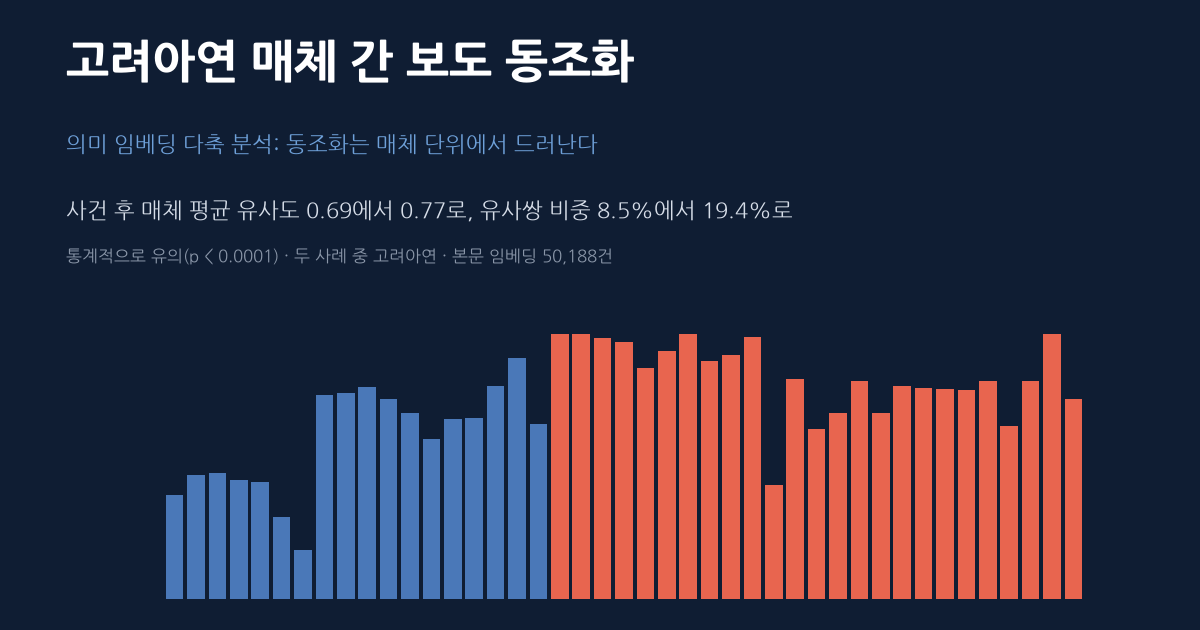
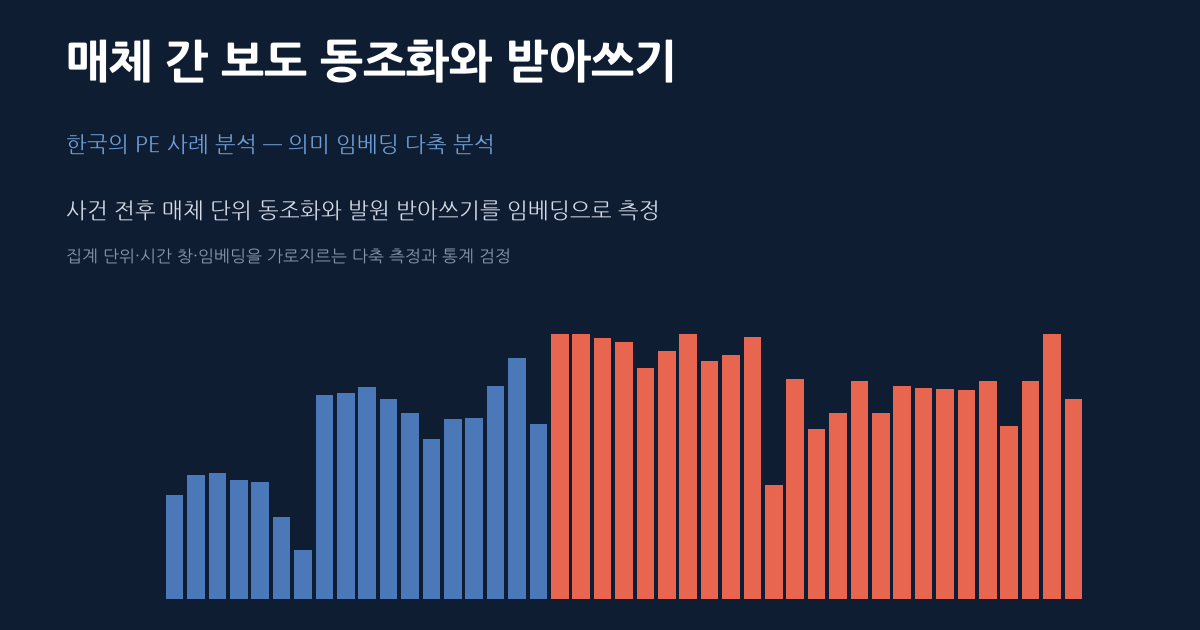
제목 일반화(한국 PE 사례) + 기자·언론사 실명 전면 마스킹
- 제목: '고려아연 매체 간 보도 동조화' → '매체 간 보도 동조화와 받아쓰기 — 한국의 PE 사례 분석'
  (title/og/h1/subtitle/meta, 썸네일, DOCX/HWPX 동일 반영)
- §5.6 본문·캡션 실명 마스킹: 매체→'한 종합지/다른 두 매체', 기자→'한 기자/다른 기자, 기자 A·B'
- 그림10(burst): 매체·기자 라벨 익명화(매체 A·B / 기자 A·B) 재생성
- §7.2 발원: '연합인포맥스' → '한 통신사'
- PDF(45쪽)·DOCX·HWPX(baking) 재생성

diff --git a/index.html b/index.html
@@ -3,9 +3,9 @@
 <head>
 <meta charset="UTF-8">
 <meta name="viewport" content="width=device-width, initial-scale=1.0">
-<title>고려아연 매체 간 보도 동조화 — 의미 임베딩 다축 분석</title>
-<meta property="og:title" content="고려아연 매체 간 보도 동조화 — 의미 임베딩 다축 분석">
-<meta property="og:description" content="동조화는 매체 단위에서 드러난다 — 본문 임베딩·집계 단위·시간 창·지표의 다축 분석">
+<title>매체 간 보도 동조화와 받아쓰기 — 한국의 PE 사례 분석</title>
+<meta property="og:title" content="매체 간 보도 동조화와 받아쓰기 — 한국의 PE 사례 분석">
+<meta property="og:description" content="의미 임베딩으로 받아쓰기와 동조화를 측정 — 집계 단위·시간 창·발원 추적·통계 검정">
 <meta property="og:image" content="assets/thumbnail.png">
 <meta property="og:type" content="article">
 <link rel="preconnect" href="https://fonts.googleapis.com">
@@ -47,9 +47,9 @@
 <header class="hero"><img src="assets/thumbnail.png" alt="고려아연 매체 간 보도 동조화"></header>
 
 <div class="titleblock">
-  <h1 class="title">고려아연 매체 간 보도 동조화의 의미 임베딩 다축 분석<br>— 동조화는 매체 단위에서 드러난다</h1>
-  <div class="subtitle">집계 단위·시간 창·임베딩 방식을 가로지르는 다축 측정과 통계 검정</div>
-  <div class="meta"><b>데이터</b> 네이버 뉴스 고려아연 관련 본문 50,188건 · <b>임베딩</b> bge-m3(1,024차원) / text-embedding-3-large(3,072차원) · <b>핵심</b> 매체 단위 동조화(p&lt;10⁻⁴) &nbsp;|&nbsp; 2026.06</div>
+  <h1 class="title">매체 간 보도 동조화와 받아쓰기<br>— 한국의 PE 사례 분석</h1>
+  <div class="subtitle">의미 임베딩 기반 다축 측정과 발원 기사 추적·통계 검정</div>
+  <div class="meta"><b>데이터</b> 한국 포털뉴스 본문 임베딩 · <b>임베딩</b> bge-m3(1,024차원) / text-embedding-3-large(3,072차원) · <b>핵심</b> 매체 단위 동조화와 받아쓰기 &nbsp;|&nbsp; 2026.06</div>
 </div>
 
 <div class="abstract">
@@ -223,8 +223,8 @@
 </table>
 
 <h3>5.6 발행 타이밍 버스트</h3>
-<p>거시적 동조화가 실제 뉴스룸에서 어떻게 만들어지는지는, 사건 당일의 발행 타이밍을 무작위 영모형과 견주어 통계로 들여다보면 드러난다. 공개매수 당일 매체는 보도량을 채우는 물량형과 짧은 시간에 몰아치는 버스트형으로 갈렸는데, 한국경제는 16건을 하루에 고르게 내보낸 반면 아시아경제와 빅데이터뉴스는 7~8건 중 5건을 60분 안에 쏟아냈다(영모형 p=0.001). 기자 단위로 내려가면 김준형 기자가 7건 중 5건을 60분 안에 발행하는 등 명백한 rapid-fire가 무작위 기대를 크게 벗어났다(p=0.0003, 서효림 p=0.005). 이러한 버스트는 같은 사안을 거의 동시에 받아쓰는 미시 행동으로, 앞서 통계로 확인한 매체 단위 동조화가 어떤 경로로 발생하는지를 구체적으로 설명한다.</p>
-<figure><img src="assets/burst_kz.png" alt="발행 타이밍 버스트"><figcaption><b>그림 10.</b> (왼쪽) 매체별 총 기사 수와 60분 최대 발행 수 — 물량형(우하)과 버스트형(좌상). (오른쪽) 기자별 rapid-fire — 김준형(7건 중 5건/60분, p=0.0003)·서효림(p=0.005)이 유의하다.</figcaption></figure>
+<p>거시적 동조화가 실제 뉴스룸에서 어떻게 만들어지는지는, 사건 당일의 발행 타이밍을 무작위 영모형과 견주어 통계로 들여다보면 드러난다. 공개매수 당일 매체는 보도량을 채우는 물량형과 짧은 시간에 몰아치는 버스트형으로 갈렸는데, 한 종합지는 16건을 하루에 고르게 내보낸 반면 다른 두 매체는 7~8건 중 5건을 60분 안에 쏟아냈다(영모형 p=0.001). 기자 단위로 내려가면 한 기자가 7건 중 5건을 60분 안에 발행하는 등 명백한 rapid-fire가 무작위 기대를 크게 벗어났다(p=0.0003, 다른 기자 p=0.005). 이러한 버스트는 같은 사안을 거의 동시에 받아쓰는 미시 행동으로, 앞서 통계로 확인한 매체 단위 동조화가 어떤 경로로 발생하는지를 구체적으로 설명한다.</p>
+<figure><img src="assets/burst_kz.png" alt="발행 타이밍 버스트"><figcaption><b>그림 10.</b> (왼쪽) 매체별 총 기사 수와 60분 최대 발행 수 — 물량형(우하)과 버스트형(좌상). (오른쪽) 기자별 rapid-fire — 기자 A(7건 중 5건/60분, p=0.0003)·기자 B(p=0.005)가 유의하다.</figcaption></figure>
 
 <!-- ===================== 6. 홈플러스 ===================== -->
 <h2>6. 홈플러스 분석</h2>
@@ -314,7 +314,7 @@
 <p>유형별 동조화에서 두 가지가 드러난다. 첫째, 같은 기업·같은 매체군임에도 이슈 보도(매체 단위 평균 0.809·≥0.9 비중 30.2%)가 일반보도(0.758·24.2%)보다 강하게 동조화된다. 곧 동조화는 이 기업 보도의 상시적 속성이 아니라 사건이 만든 것으로, 시점 통제(사전·사후)에 더해 내용 통제 기준선까지 통과한다. 둘째, 이슈 안에서 부정 보도(0.836·38.2%)가 가장 강하게 동조화되고 긍정 보도(0.768·13.1%)는 약하다. 양적 불균형(약 12:1)과 질적 집중(부정이 최고 동조화)이 겹쳐, MBK 부정 내러티브가 조직적으로 확산되었을 가능성을 가리킨다.</p>
 
 <h3>7.2 고려아연 — 발원 기사 추적: 즉각 받아쓰기와 재활용</h3>
-<p>유형·논조 비교가 "어떤 보도가 동조화되는가"를 보였다면, 동조화가 실제로 어떻게 일어나는지는 발원 기사를 시간순으로 추적하면 더 직접적으로 드러난다. MBK 부정 이슈의 발원으로 공개매수 발표 당일의 첫 기사(2024-09-13 09:24, 연합인포맥스)를 잡고, 이후 모든 부정 기사가 그 발원 기사와 얼마나 닮았는지를 코사인유사도로 시간순으로 본다. 10분·시간의 미시와 1·5·10·20일의 거시, 세 척도로 받아쓰기의 속도와 지속을 함께 측정한다.</p>
+<p>유형·논조 비교가 "어떤 보도가 동조화되는가"를 보였다면, 동조화가 실제로 어떻게 일어나는지는 발원 기사를 시간순으로 추적하면 더 직접적으로 드러난다. MBK 부정 이슈의 발원으로 공개매수 발표 당일의 첫 기사(2024-09-13 09:24, 한 통신사)를 잡고, 이후 모든 부정 기사가 그 발원 기사와 얼마나 닮았는지를 코사인유사도로 시간순으로 본다. 10분·시간의 미시와 1·5·10·20일의 거시, 세 척도로 받아쓰기의 속도와 지속을 함께 측정한다.</p>
 <figure><img src="assets/seed_kz.png" alt="발원 기사 대비 유사도"><figcaption><b>그림 20.</b> 발원 기사 대비 유사도를 세 척도로 — ① 10분×12시간, ② 시간×72시간(회색=기사 수, 빨강=≥0.8 받아쓰기), ③ 일 단위(20일 창, 기사·기자매체·매체). 발원 직후 10분·시간 단위에서 ≥0.8 받아쓰기가 폭발하고, 일 단위에서 매체 비율이 사건 직후 높았다가 약 1년 뒤 다시 솟는다.</figcaption></figure>
 <table>
   <caption><b>표 9.</b> 발원(2024-09-13 09:24) 이후 부정 기사의 받아쓰기 (기사 단위, 발원과의 코사인유사도)</caption>